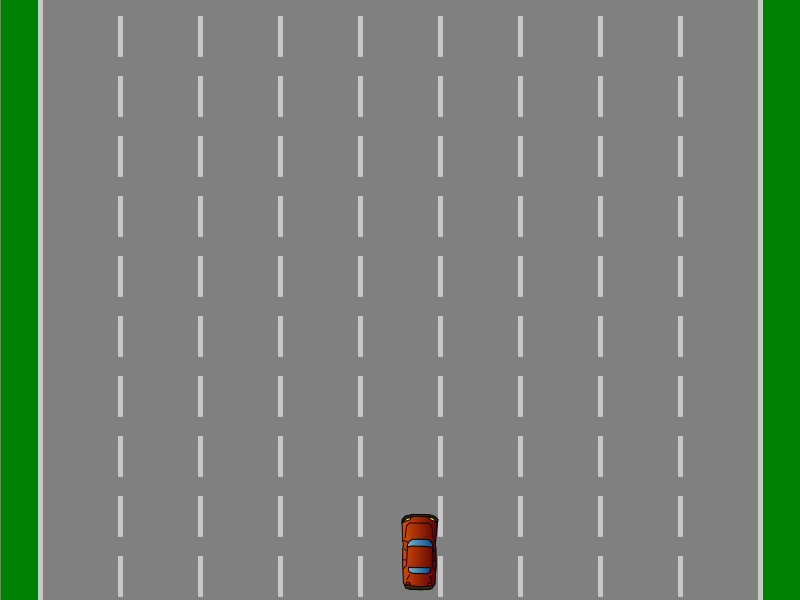
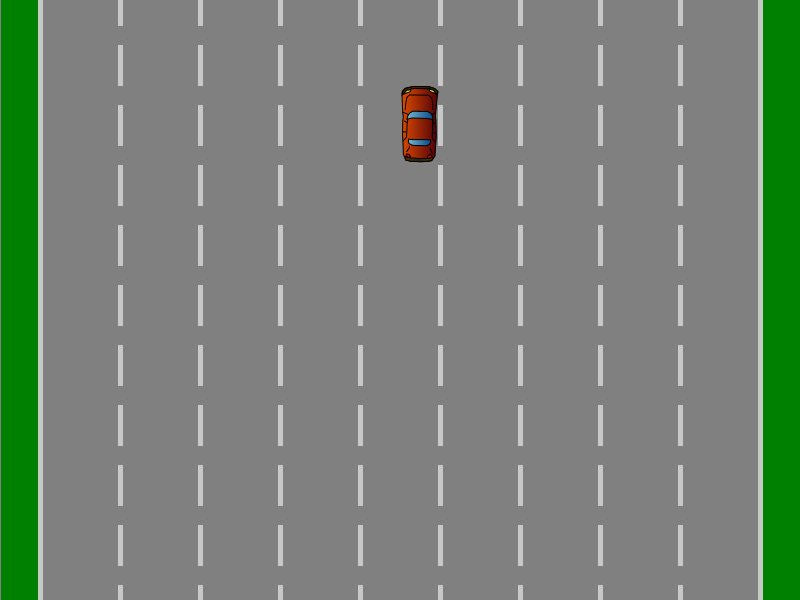
erteefrsr

diff --git a/main (4).py b/main (4).py
@@ -1,0 +1,268 @@
+import pygame as pg
+import random
+import os
+
+os.environ['SDL_VIDEO_CENTERED'] = '1'
+try:
+    with open('record.txt', 'x') as f:
+        f.write(str(0))
+except BaseException:
+    pass
+
+SIZE = WIDTH, HEIGHT = 800, 600
+GREY = (128, 128, 128)
+GREEN = (0, 128, 0)
+WHITE = (200, 200, 200)
+block = False
+block2 = False
+car_accident = 0
+scr1 = True
+rgb = [0, 250, 0]
+level = 40
+
+pg.init()
+pg.display.set_caption('Rally')
+screen = pg.display.set_mode(SIZE)
+
+FPS = 120
+clock = pg.time.Clock()
+
+cars = [pg.image.load('Image/car1.png'), pg.image.load('Image/car2.png'),
+        pg.image.load('Image/car3.png')]
+sound_car_accident = pg.mixer.Sound('sond/udar.wav')
+sound_canister = pg.mixer.Sound('sond/canister.wav')
+font = pg.font.Font(None, 32)
+button_start = pg.image.load('Image/start_button.png')
+button_start_rect = button_start.get_rect(center=(WIDTH // 2, HEIGHT // 2 - 100))
+button_stop = pg.image.load('Image/stop_button.png')
+button_stop_rect = button_stop.get_rect(center=(WIDTH // 2, HEIGHT // 2 + 100))
+
+fuel_image = pg.image.load('Image/fuel.png')
+canister_image = pg.image.load('Image/canister.png')
+water_image = pg.image.load('Image/water.png')
+
+u1_event = pg.USEREVENT + 1
+pg.time.set_timer(u1_event, random.randrange(6000, 26001, 4000))
+u2_event = pg.USEREVENT + 2
+pg.time.set_timer(u2_event, random.randrange(7000, 27001, 5000))
+
+
+class Player(pg.sprite.Sprite):
+    def __init__(self):
+        super().__init__()
+
+        self.image = pg.image.load('Image/car4.png')
+        self.orig_image = self.image
+        self.angle = 0
+        self.speed = 2
+        self.acceleration = 0.02
+        self.x, self.y = WIDTH // 2, HEIGHT // 2
+        self.rect = self.image.get_rect()
+        self.position = pg.math.Vector2(self.x, self.y)
+        self.velocity = pg.math.Vector2()
+
+    def update(self):
+        self.image = pg.transform.rotate(self.orig_image, self.angle)
+        self.rect = self.image.get_rect(center=self.rect.center)
+        self.position += self.velocity
+        self.rect.center = int(self.position.x), int(self.position.y)
+
+        keys = pg.key.get_pressed()
+        if keys[pg.K_RIGHT]:
+            self.velocity.x = self.speed
+            self.angle -= 1
+            if self.angle < -25:
+                self.angle = -25
+        elif keys[pg.K_LEFT]:
+            self.velocity.x = -self.speed
+            self.angle += 1
+            if self.angle > 25:
+                self.angle = 25
+        else:
+            self.velocity.x = 0
+            if self.angle < 0:
+                self.angle += 1
+            elif self.angle > 0:
+                self.angle -= 1
+        if keys[pg.K_UP]:
+            self.velocity.y -= self.acceleration
+            if self.velocity.y < -self.speed:
+                self.velocity.y = -self.speed
+        elif keys[pg.K_DOWN]:
+            self.velocity.y += self.acceleration
+            if self.velocity.y > self.speed:
+                self.velocity.y = self.speed
+        else:
+            if self.velocity.y < 0:
+                self.velocity.y += self.acceleration
+                if self.velocity.y > 0:
+                    self.velocity.y = 0
+            elif self.velocity.y > 0:
+                self.velocity.y -= self.acceleration
+                if self.velocity.y < 0:
+                    self.velocity.y = 0
+
+
+class Car(pg.sprite.Sprite):
+    def __init__(self, x, y, img):
+        pg.sprite.Sprite.__init__(self)
+
+        if img == fuel_image:
+            self.image = img
+            self.speed = 0
+        elif img == canister_image or img == water_image:
+            self.image = img
+            self.speed = 1
+
+        else:
+            self.image = pg.transform.flip(img, False, True)
+            self.speed = random.randint(2, 3)
+        self.rect = self.image.get_rect(center=(x, y))
+
+    def update(self):
+        self.rect.y += self.speed
+        if self.rect.top >= HEIGHT:
+            if self == canister or self == water :
+                self.kill()
+            else:
+
+                list_x.remove(self.rect.centerx)
+                while True:
+                    self.rect.centerx = random.randrange(80, WIDTH, 80)
+                    if self.rect.centerx in list_x:
+                        continue
+                    else:
+                        list_x.append(self.rect.centerx)
+                        self.speed = random.randint(2, 3)
+                        self.rect.bottom = 0
+                        break
+
+
+class Road(pg.sprite.Sprite):
+    def __init__(self, x, y):
+        pg.sprite.Sprite.__init__(self)
+
+        self.image = pg.Surface(screen.get_size())
+        self.image.fill(GREY)
+        pg.draw.line(self.image, GREEN, (20, 0), (20, 600), 40)
+        pg.draw.line(self.image, GREEN, (780, 0), (780, 600), 40)
+        for xx in range(10):
+            for yy in range(10):
+                pg.draw.line(
+                    self.image, WHITE,
+                    (40 + xx * 80, 0 if xx == 0 or xx == 9 else 10 + yy * 60),
+                    (40 + xx * 80, 600 if xx == 0 or xx == 9 else 50 + yy * 60), 5)
+        self.rect = self.image.get_rect(topleft=(x, y))
+        self.speed = 1
+
+    def update(self):
+        self.rect.y += self.speed
+        if self.rect.top >= HEIGHT:
+            self.rect.bottom = 0
+
+
+all_sprite = pg.sprite.Group()
+cars_group = pg.sprite.Group()
+canister_group = pg.sprite.Group()
+water_group = pg.sprite.Group()
+for r in range(2):
+    all_sprite.add(Road(0, 0 if r == 0 else -HEIGHT))
+player = Player()
+
+list_x = []
+n = 0
+while n < 6:
+    x = random.randrange(80, WIDTH, 80)
+    if x in list_x:
+        continue
+    else:
+        list_x.append(x)
+        cars_group.add(Car(x, -cars[0].get_height(), random.choice(cars)))
+        n += 1
+
+fuel = Car(720, 40, fuel_image)
+canister = Car(0, 0, canister_image)
+water = Car(0, 0, water_image)
+all_sprite.add(cars_group, player, fuel)
+
+
+def screen1():
+    sc = pg.Surface(screen.get_size())
+    sc.fill(pg.Color('navy'))
+    sc.blit(button_start, button_start_rect)
+    sc.blit(button_stop, button_stop_rect)
+    screen.blit(sc, (0, 0))
+
+der my_record():
+ with open ('record.txt', 'r+') as d:
+     record = d.read()
+     if
+
+
+game = True
+while game:
+    for e in pg.event.get():
+        if e.type == pg.QUIT:
+            game = False
+        elif e.type == pg.MOUSEBUTTONDOWN:
+            if e.button == 1:
+                if button_start_rect.collidepoint(e.pos):
+                    scr1 = False
+                elif button_stop_rect.collidepoint(e.pos):
+                    game = False
+        elif e.type == u1_event:
+            water_group.add(water)
+            all_sprite.add(water)
+            water.rect.center = \
+                random.randrange(80, WIDTH, 80), -water.rect.h
+            pg.time.set_timer(u1_event, random.randrange(6000, 26001, 4000))
+        elif e.type == u2_event:
+            canister_group.add(canister_group)
+            all_sprite.add(canister)
+            canister.rect.center = \
+                random.randrange(80, WIDTH,  80), -canister.rect.h
+            pg.time.set_timer(u2_event, random.randrange(7000, 27001, 5000))
+
+    if pg.sprite.spritecollideany(player, cars_group):
+        if not block:
+            player.position.x += 50 * random.randrange(-1, 2, 2)
+            player.angle = 50 * random.randrange(-1, 2, 2)
+            sound_car_accident.play()
+            car_accident += 1
+            block = True
+    else:
+        block = False
+    if pg.sprite.spritecollide(player, canister_group, True):
+        level = 40
+        sound_canister.play()
+
+    if pg.sprite.spritecollideany(player, water_group):
+        if not block2:
+            player.angle = random.randint(60, 90) * random.randrange(-1, 2, 2)
+            block2 = True
+
+    if scr1:
+        screen1()
+    else:
+        level -= 0.01
+        if level <= 0:
+            scr1 = True
+        elif level <= 10:
+            rgb[:2] = 250, 0
+        elif level <= 20:
+            rgb[0] = 250
+        else:
+            rgb[:2] = 0, 250
+
+        all_sprite.update()
+        all_sprite.draw(screen)
+        pg.draw.rect(
+            screen, rgb,
+            (fuel.rect.left + 10, fuel.rect.bottom - level - 8, 21, level))
+        screen.blit(font.render(f'{car_accident = }', 1, GREEN), (45, 10))
+
+    pg.display.update()
+    clock.tick(FPS)
+    pg.display.set_caption(f'Rally   FPS: {int(clock.get_fps())}')
+
+# pg.image.save(screen, 'road.jpg')
